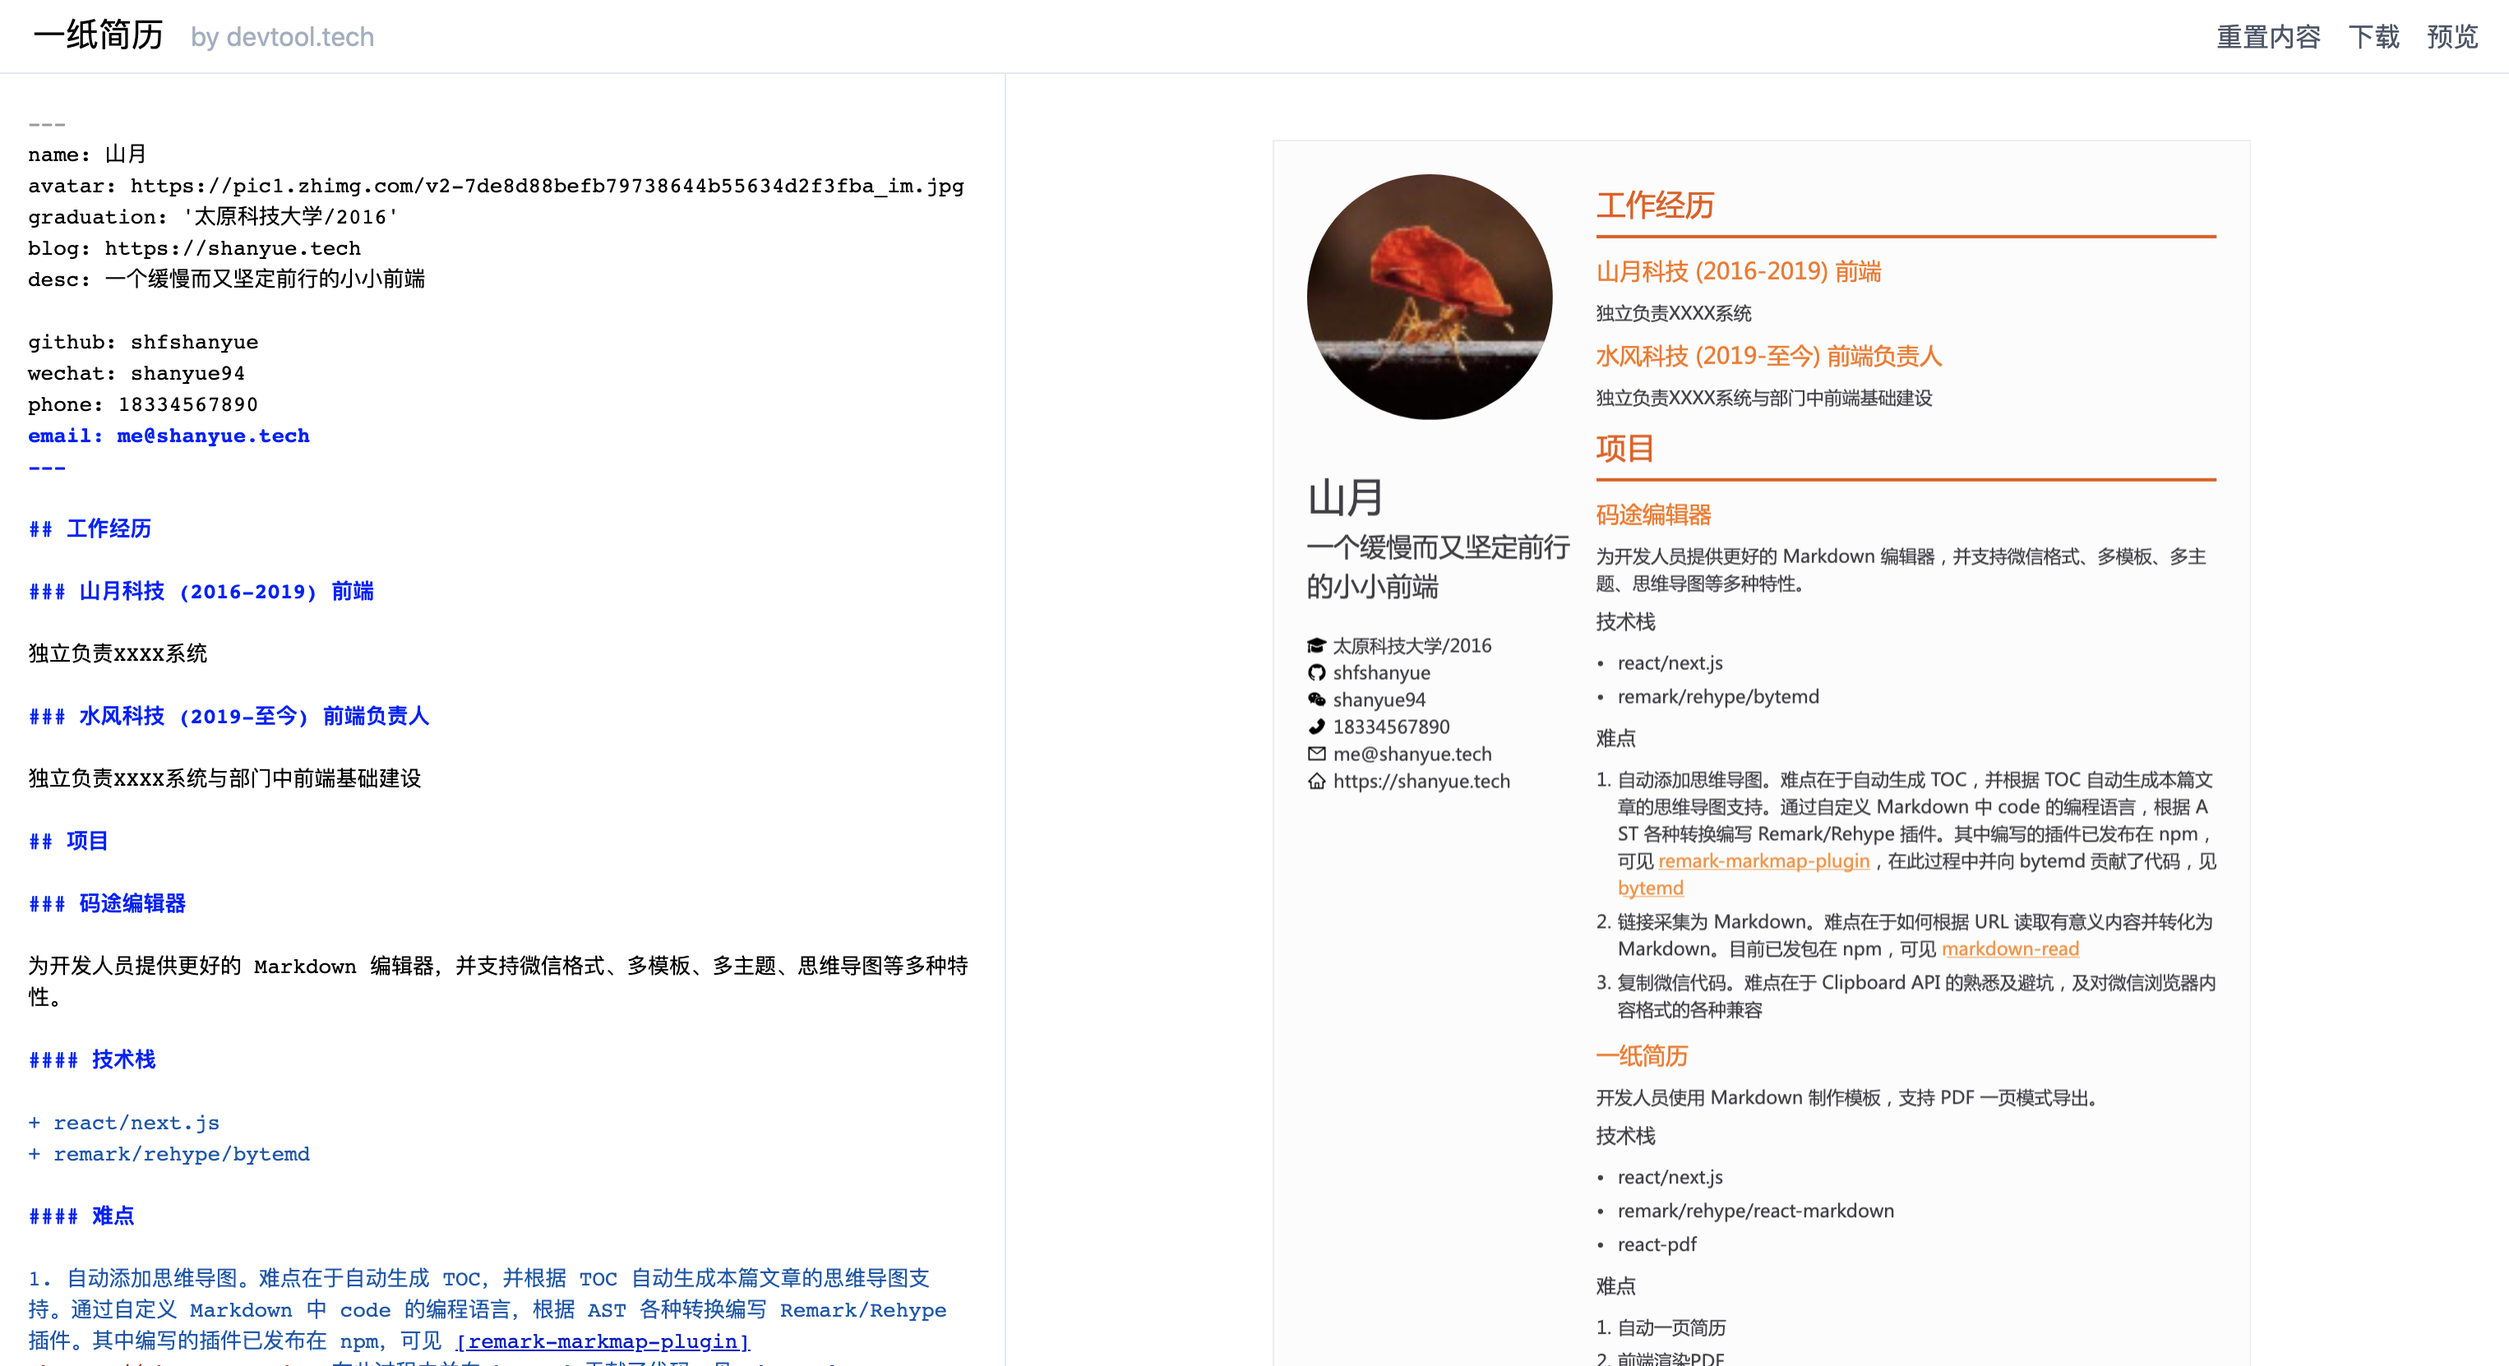
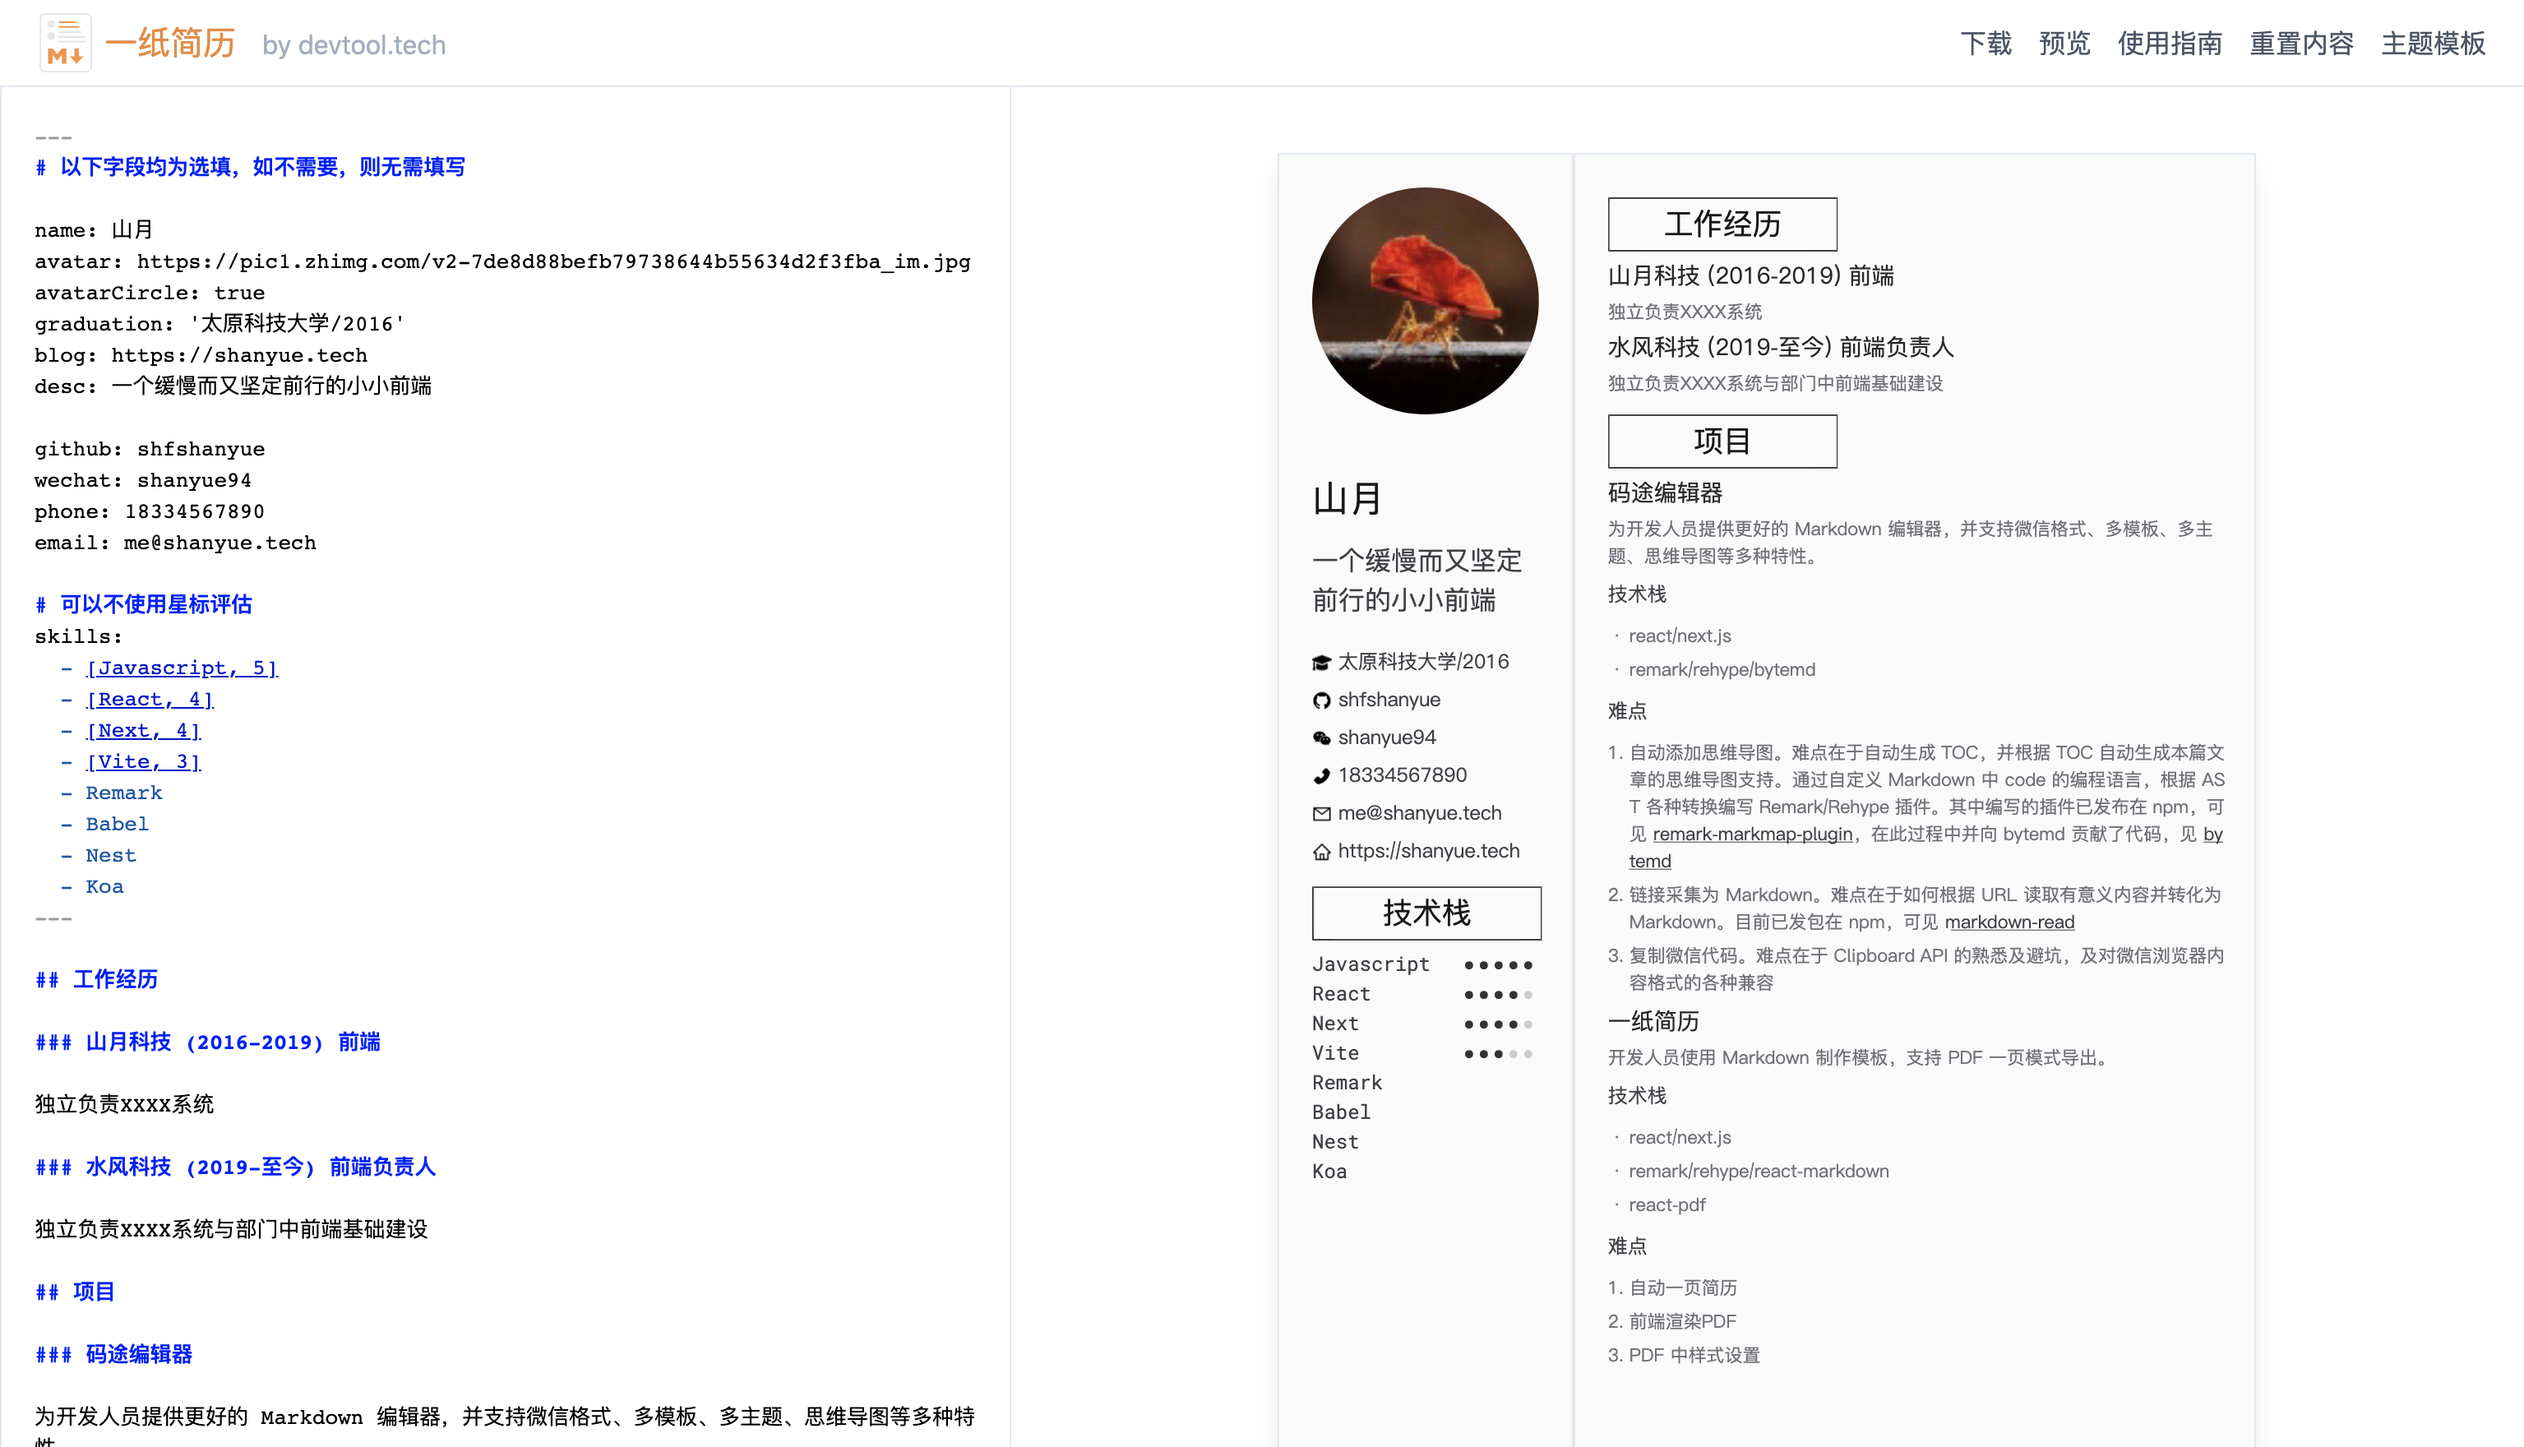
update

diff --git a/life/yizhijianli.md b/life/yizhijianli.md
@@ -1,0 +1,120 @@
+# 只有一张纸的简历 一纸简历发布
+
+在两天前，有一个关于尤大的直播，其中探讨了许多问题:
+
+1. Vue 的模板可以像 Svelte 一样高效地做静态编译优化，facebook 搞的 prepack 基于高灵活的 JS 已经没了动作
+1. 面试问源码就是人为设坎，一个人的 Vue 水平有多高与他有没有看过源码没有太大的相关性
+1. LowCode 是在自由度与易用度为两端的一条线段上尝试不同的点做平衡
+1. Serverless 取决于公司的 Infra，而你最多能考虑的是选哪家的服务
+1. 微前端需要取决于你们的业务场景
+
+但其中一个问答对我印象极深：
+
+> Q: 如何平衡 Vue 与 Vite 的开发？
+> 
+> A: 以周或者月为单位来进行切换。
+
+这对我带来了极大的启发，连续时间的注意力集中至关重要。我痛改掉我喜欢在几个项目间横跳的习惯，一鼓作气把一纸简历发布上线。
+
+---
+
+![一纸简历](https://cdn.jsdelivr.net/gh/shfshanyue/blog@master/life/assets/yizhijianli.png)
+
+简历，只用一页纸写完，重点突出，一目了然，这也是我做一纸简历的初衷。先来看一看一纸简历的成品。
+
++ [一纸简历](https://cv.devtool.tech)
++ [一纸简历](https://cv.devtool.tech)
++ [一纸简历](https://cv.devtool.tech)
+
+## 图标设计
+
+自己曾做过很多个大小网站，但都逃不过两点，一是丑，二是没图标。比如以前做的极客时间返现平台，既没有 logo，还长得丑。
+
+![](https://cdn.jsdelivr.net/gh/shfshanyue/blog@master/life/assets/geek.png)
+
+长得丑无可救药，没图标这事儿还可以抢救一下，我使用 sketch 辛苦一天整出了第一个图标。
+
+![一纸简历 ICON](https://cv.devtool.tech/icon.svg)
+
+**图标中外边的文档代表一张纸，图标中下边的 M 是 Markdown 的标志，寓意用 Markdown 编写的一张纸简历。**
+
+## 使用指南
+
+一纸简历，你只需要使用基础的 Markdown 语法与特殊的 FrontMatter 即可生成简历。它具有以下功能
+
+1. 一纸简历，顾名思义，最终导出只有一纸大小的文档
+1. 模板主题，多种模板，根据个人风格选择简约与美观
+1. Markdown，语法简介上手快，几乎不存在学习成本
+1. 实时渲染为 PDF，可直接预览与下载
+
+一纸简历根据 Markdown 生成只有一页纸的 PDF 格式简历。它的语法与 Markdown 一致，但对部分语法不受支持，一纸简历的主要组成部分为两大块:
+
+1. Markdown 中的**frontmatter**生成结构化的基础信息，如姓名、手机号、微信等个人信息
+1. Markdown 中的**正文**生成非结构化的简历主体内容，如工作负责具体事项及其成果
+
+### 基础信息 frontmatter 中的字段释义
+
+基础信息中的 `frontmatter` 采用 `yaml` 书写，以下字段均为选填，不填则不显示
+
++ `name` (string): 求职人姓名，如 `山月`
++ `desc` (string): 求职人关于自己的描述，如 `山月科技前端架构师`，`十年后端，五年前端` 等
++ `avatar` (string): 求职人照片或者头像，可以取 Github 等社交平台上的头像 URL 地址
++ `avatarCircle` (boolean): 头像是否显示为圆形头像
++ `graduation` (string): 毕业院校及时间信息，如 `家里蹲大学/2018级`
++ `blog` (string): 博客地址
++ `github` (string): Github 用户名，不用填写具体首页地址。如 `shfshanyue`
++ `wechat` (string): 微信号
++ `phone` (string): 手机号
++ `email` (string): 邮箱地址
++ `skills` (`([string, number] | string)[]`): 技能及掌握程度，5 为满星，也可以不标星
+
+### 正文信息
+
+目前支持以下 Markdown 语法:
+
++ heading: `#`、`##`、`###`、`####`、`#####`、`######`
++ inlineCode: `\`hello\``
++ a: `[shanyue](https://shanyue.tech)`
++ list: `+`、`-`、`1. `
+
+目前不支持以下 Markdown 语法:
+
+1. 引用: `blockquote`
+1. Markdown 扩展语法
+
+### 多页简历
+
+本应用主要引入一页简历，如需多页简历，请转到另一个使用 Markdown 书写的 [码途编辑器](https://markdown.devtool.tech/app)。
+
+它是一个 Markdown 编辑器，支持多种主题，并可导出为 PDF。你可以把多页简历使用 Markdown 书写，并使用它来导出 PDF。
+
+## 技术架构
+
+一纸简历完全是纯前端实现，无服务器端参与。因此技术的难点在于**在浏览器端，如何把 Markdown 渲染为 PDF 可供实时预览与直接下载**。
+
+而实现原理说起来简单: **从 Markdown 起，AST 经各种转换，在浏览器中生成二进制的PDF文档，并在浏览器中进行展示**。
+
+对于一个业务同学而言，其中的难点不在于如何从零实现，而在于如何在一百万的 npm 仓库中找到合适的轮子，从零实现既无心力也不必要。而对于此实现最重要的三个库呈现在眼前
+
+1. [react-markdown](https://npm.devtool.tech/react-markdown): Markdown 渲染为 React Component
+1. [@react-pdf/renderer](https://npm.devtool.tech/@react-pdf/renderer): React Component 制作 PDF 文档
+1. [react-pdf](https://npm.devtool.tech/react-pdf): 把 PDF 文档通过 SVG/Canvas 的形式在浏览器中渲染出来
+
+## 尝试与反馈
+
+线上地址: [一纸简历](https://cv.devtool.tech)
+
+如果你有任何使用上的问题与建议，可以添加我的微信 `shanyue94` 进行反馈与交流。
+
+## 下一步规划
+
+1. 主题模板: 添加更多的样式，每一个人都有不同的风格，简约与美观不能兼顾，将会开发更多的模板供用户选择
+1. 内容模板: 相比主题样式而言，内容或许更为重要，如何写更好的简历每个人都有不同的简介，我将与诸多大厂同学对简历内容进行讨论，制作出多种内容模板
+1. 定制模板: 供用户自定义模板
+1. 分享链接: 这有可能是一个非常好用的功能，可把简历生成为一个拥有过期时间的 URL，方便在投递简历时进行沟通。
+
+对于以上四个下一步规划，你更喜欢哪一个呢，欢迎留言，山月将把时间留给最为迫切的需求。
+
+留言点赞最多的三位用户将每人送一件短袖
+
+(:投票
